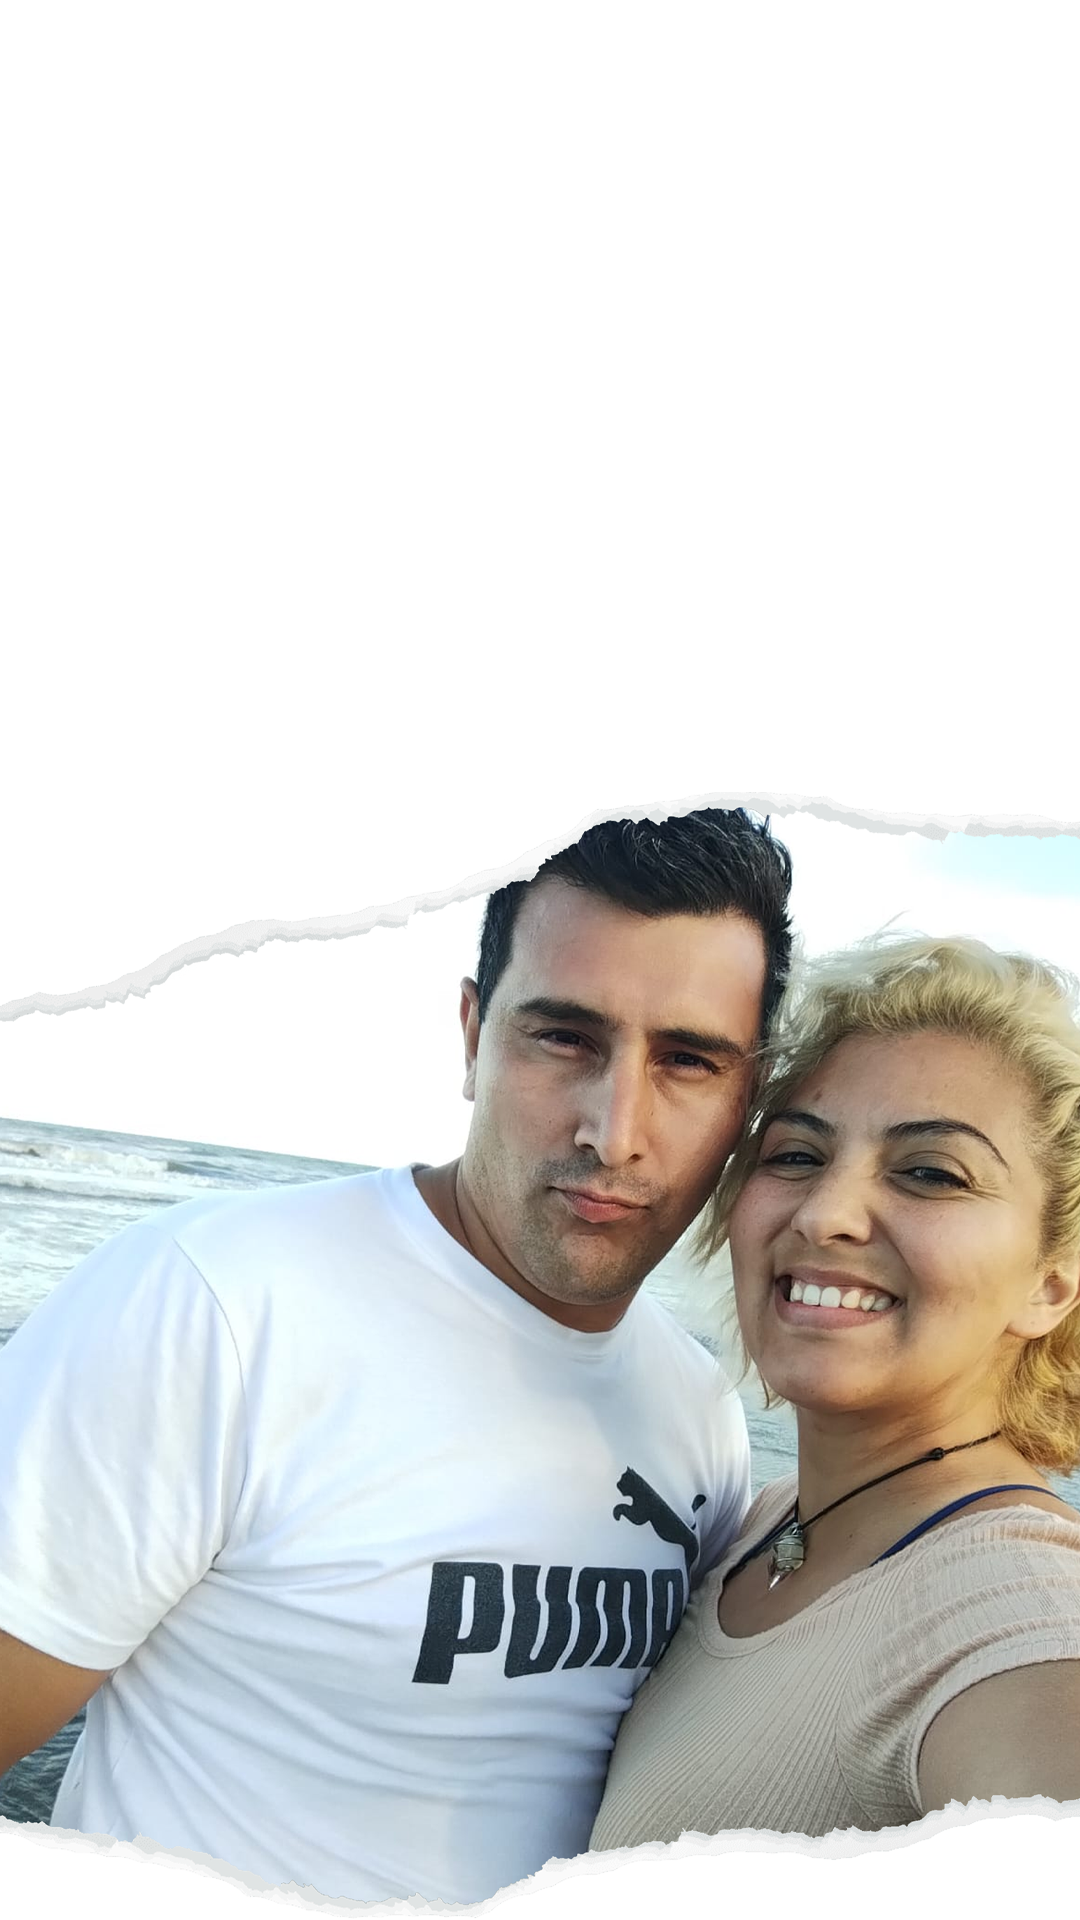
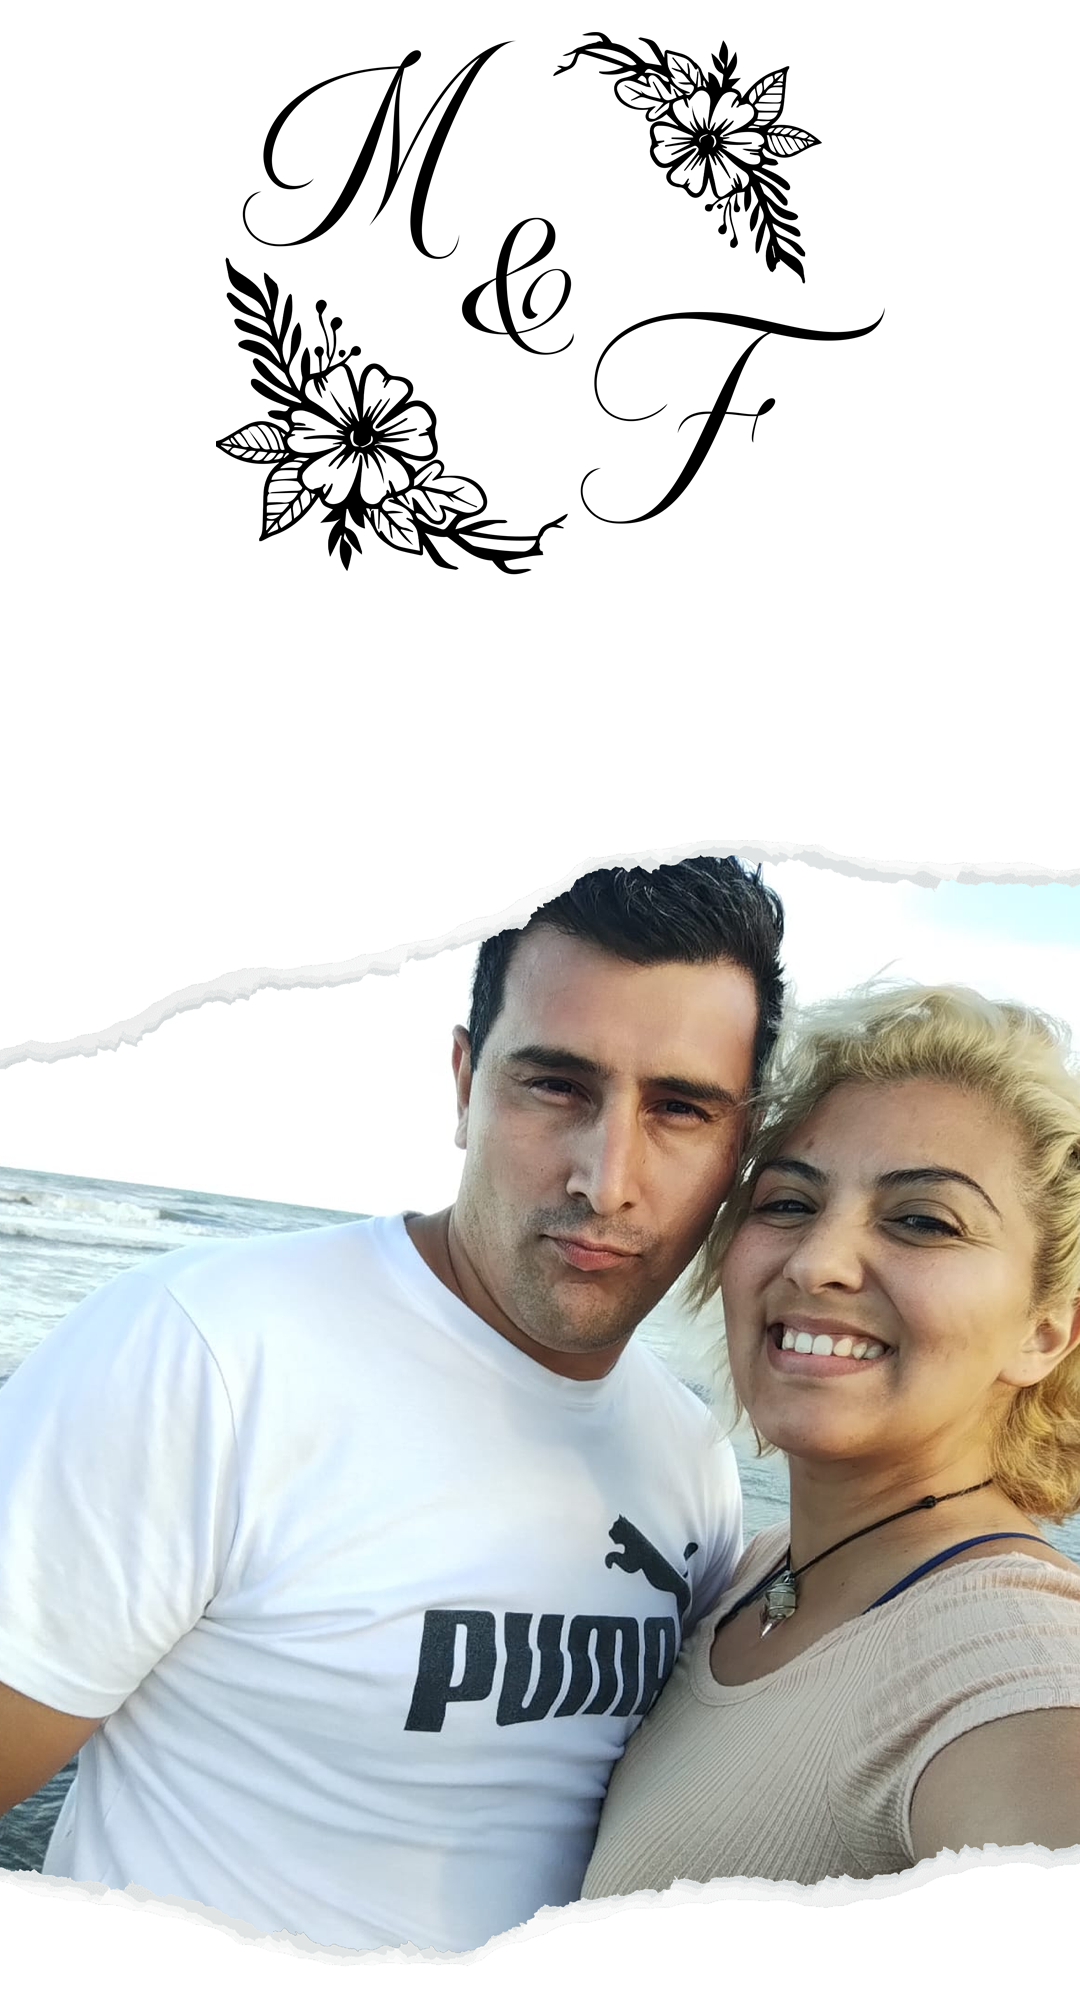
imagen

diff --git a/styles.css b/styles.css
@@ -72,6 +72,7 @@ body.abierto .texto {
 /* ARRIBA */
 .arriba {
   top: 0;
+  z-index: 1;
 }
 
 /* ABAJO */
@@ -127,7 +128,8 @@ body.abierto .pantalla {
   justify-content: center;
   text-align: center;
   min-height: 100vh;
-
+  margin-top: -40px;
+  margin-bottom: -40px;
     background-image: url("img/fondo1.png");
   background-size: cover;       /* cubre toda la sección */
   background-position: center;  /* centra la imagen */
@@ -140,19 +142,17 @@ body.abierto .pantalla {
 
 }
 
-
-/* LOGO */
-.logo {
-  width: 30vh;
-  max-width: 100%;
- margin-top: -55vh;
+.texto-inicio{
+  display: flex;
+  flex-direction: column;
+ margin-top: -30vh;
 }
 
 /* TITULO */
 .titulo {
   font-size: 32px;
   letter-spacing: 2px;
-  margin-top: -1vh;
+  
   font-weight: 400;
 }
 
@@ -160,11 +160,11 @@ body.abierto .pantalla {
 .contador {
   display: flex;
   gap: 25px;
-  margin-top: -10vh;
+
 }
 
 .tiempo {
-  background: #a6b0b2;
+  background: #5b040471;
   padding: 12px 10px;
   border-radius: 10px;
   min-width: 65px;

diff --git a/index.html b/index.html
@@ -22,8 +22,7 @@
 <section class="contenido">
   <div class="hero">
     
-    <img src="img/logo.png" alt="Logo" class="logo">
-
+   <div class="texto-inicio">
     <h1 class="titulo">¡Nos casamos!</h1>
 
     <div class="contador" id="contador">
@@ -44,6 +43,8 @@
         <small>Seg</small>
       </div>
     </div>
+   </div>
+
 
   </div>
 </section>
